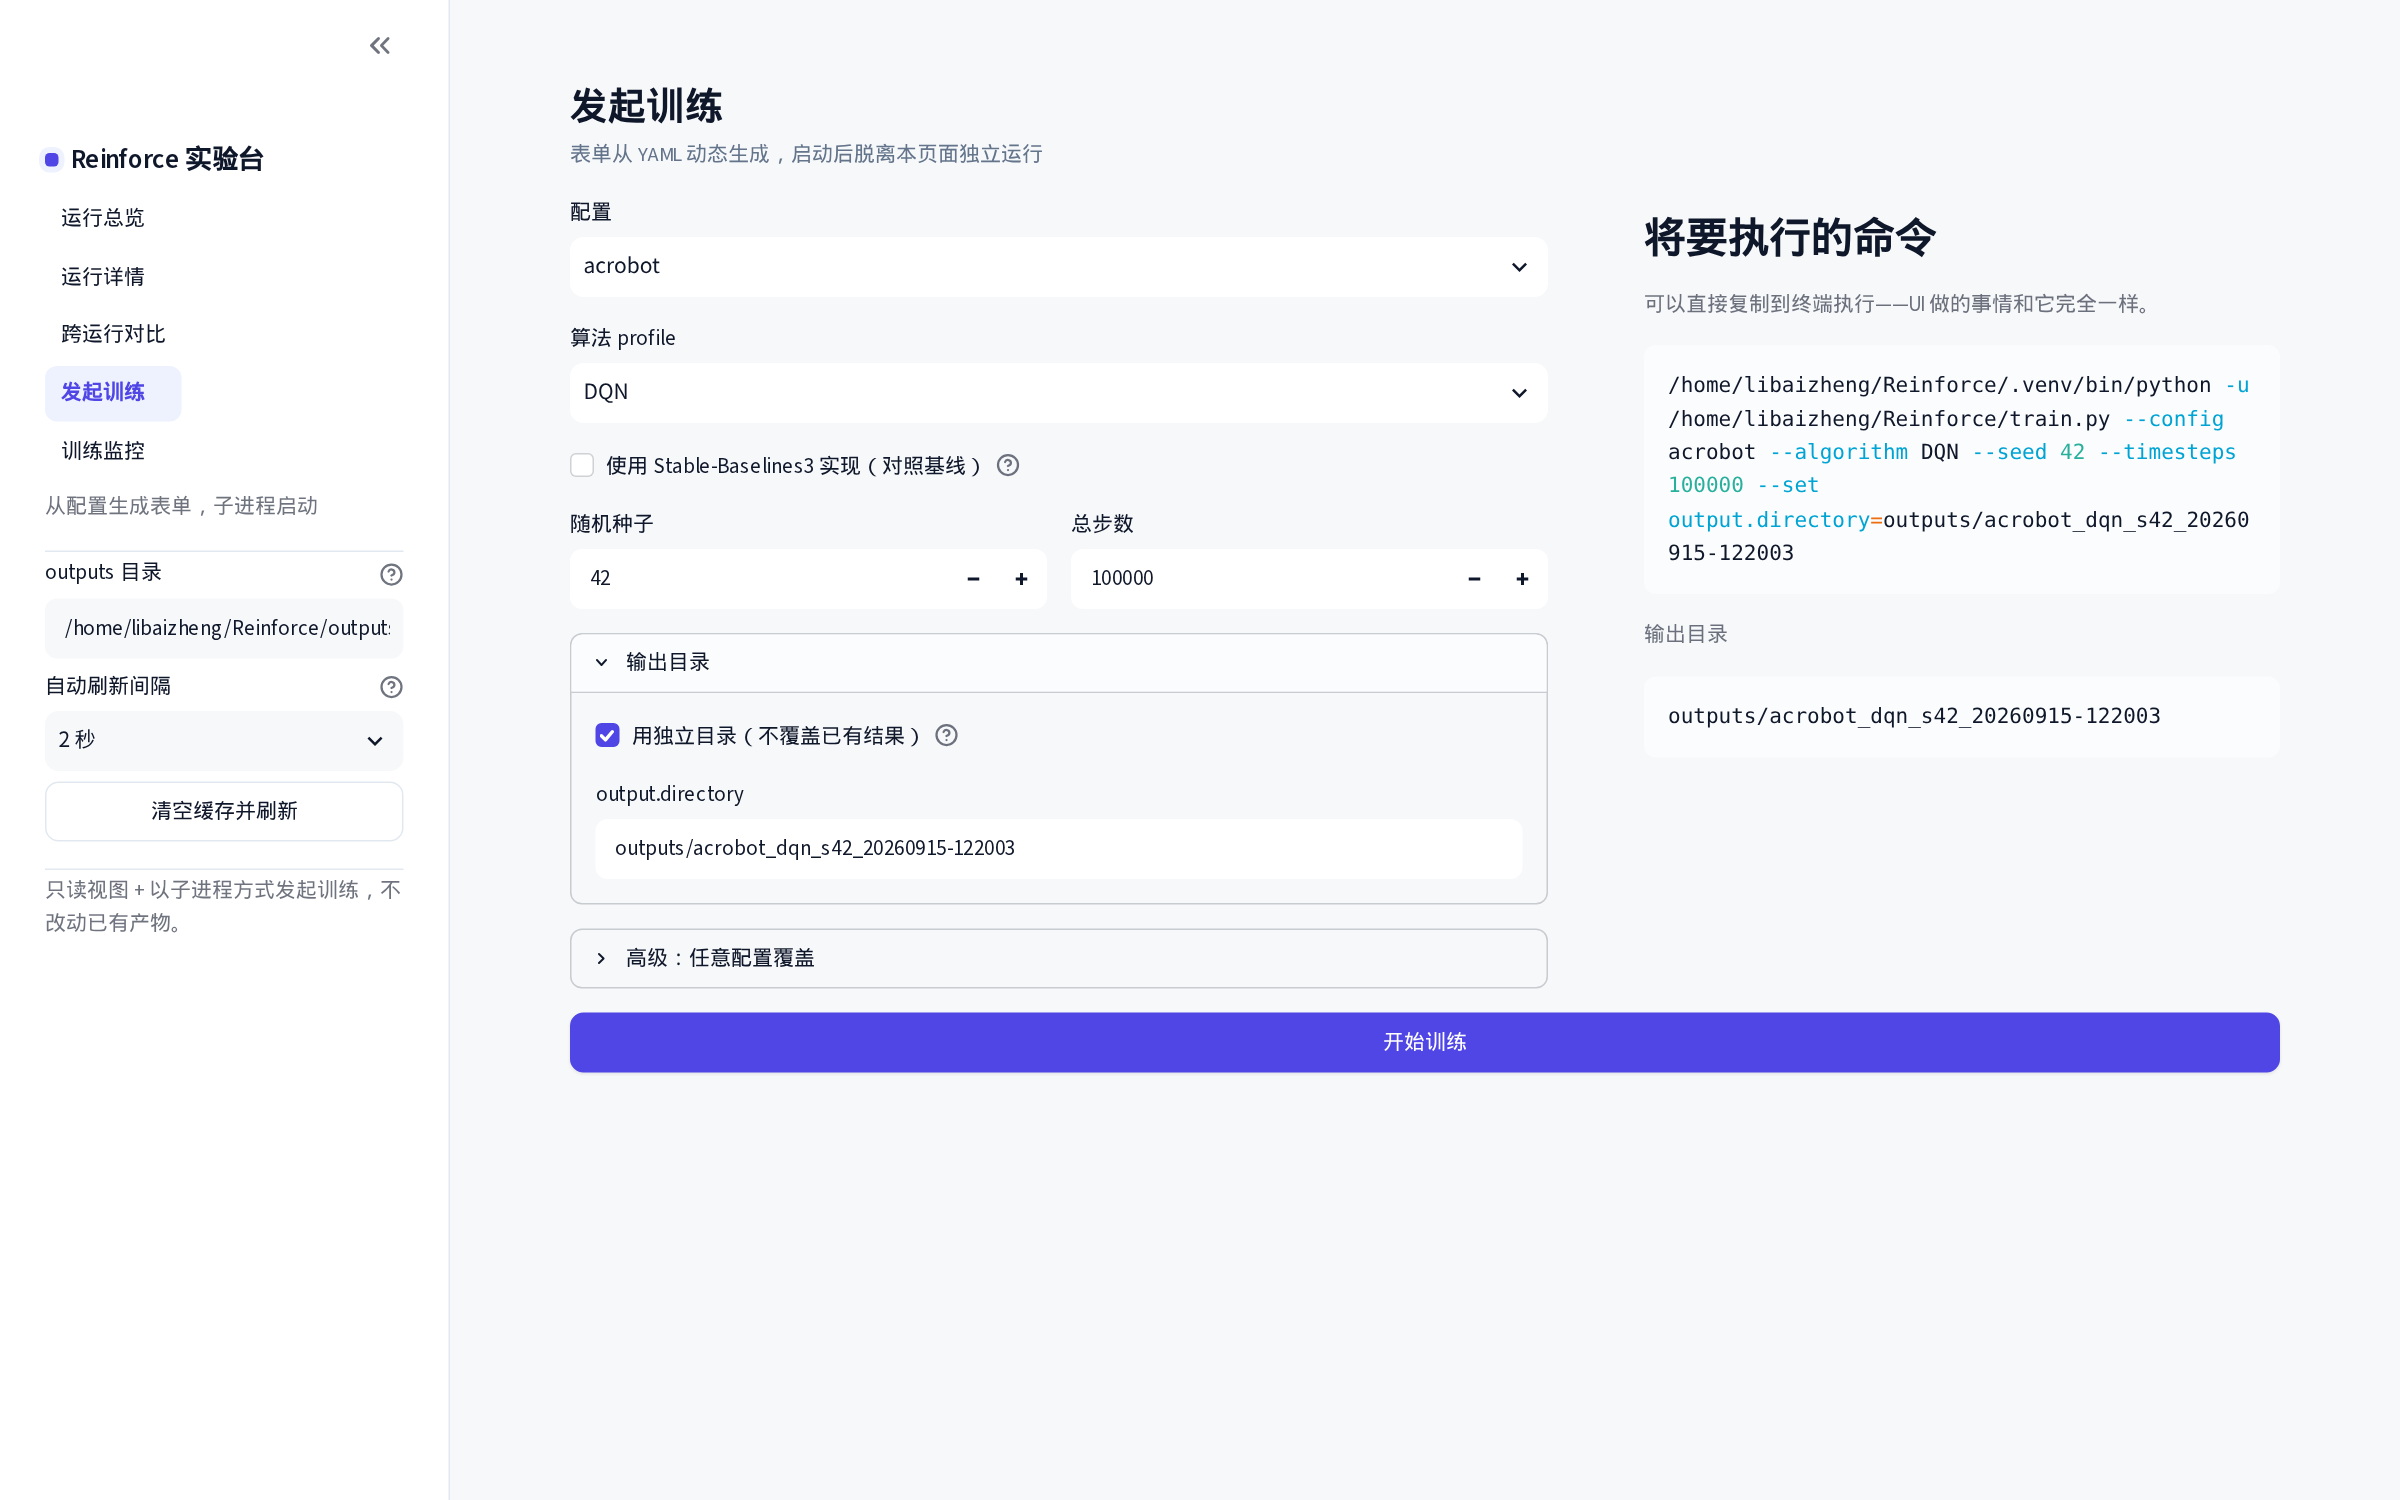
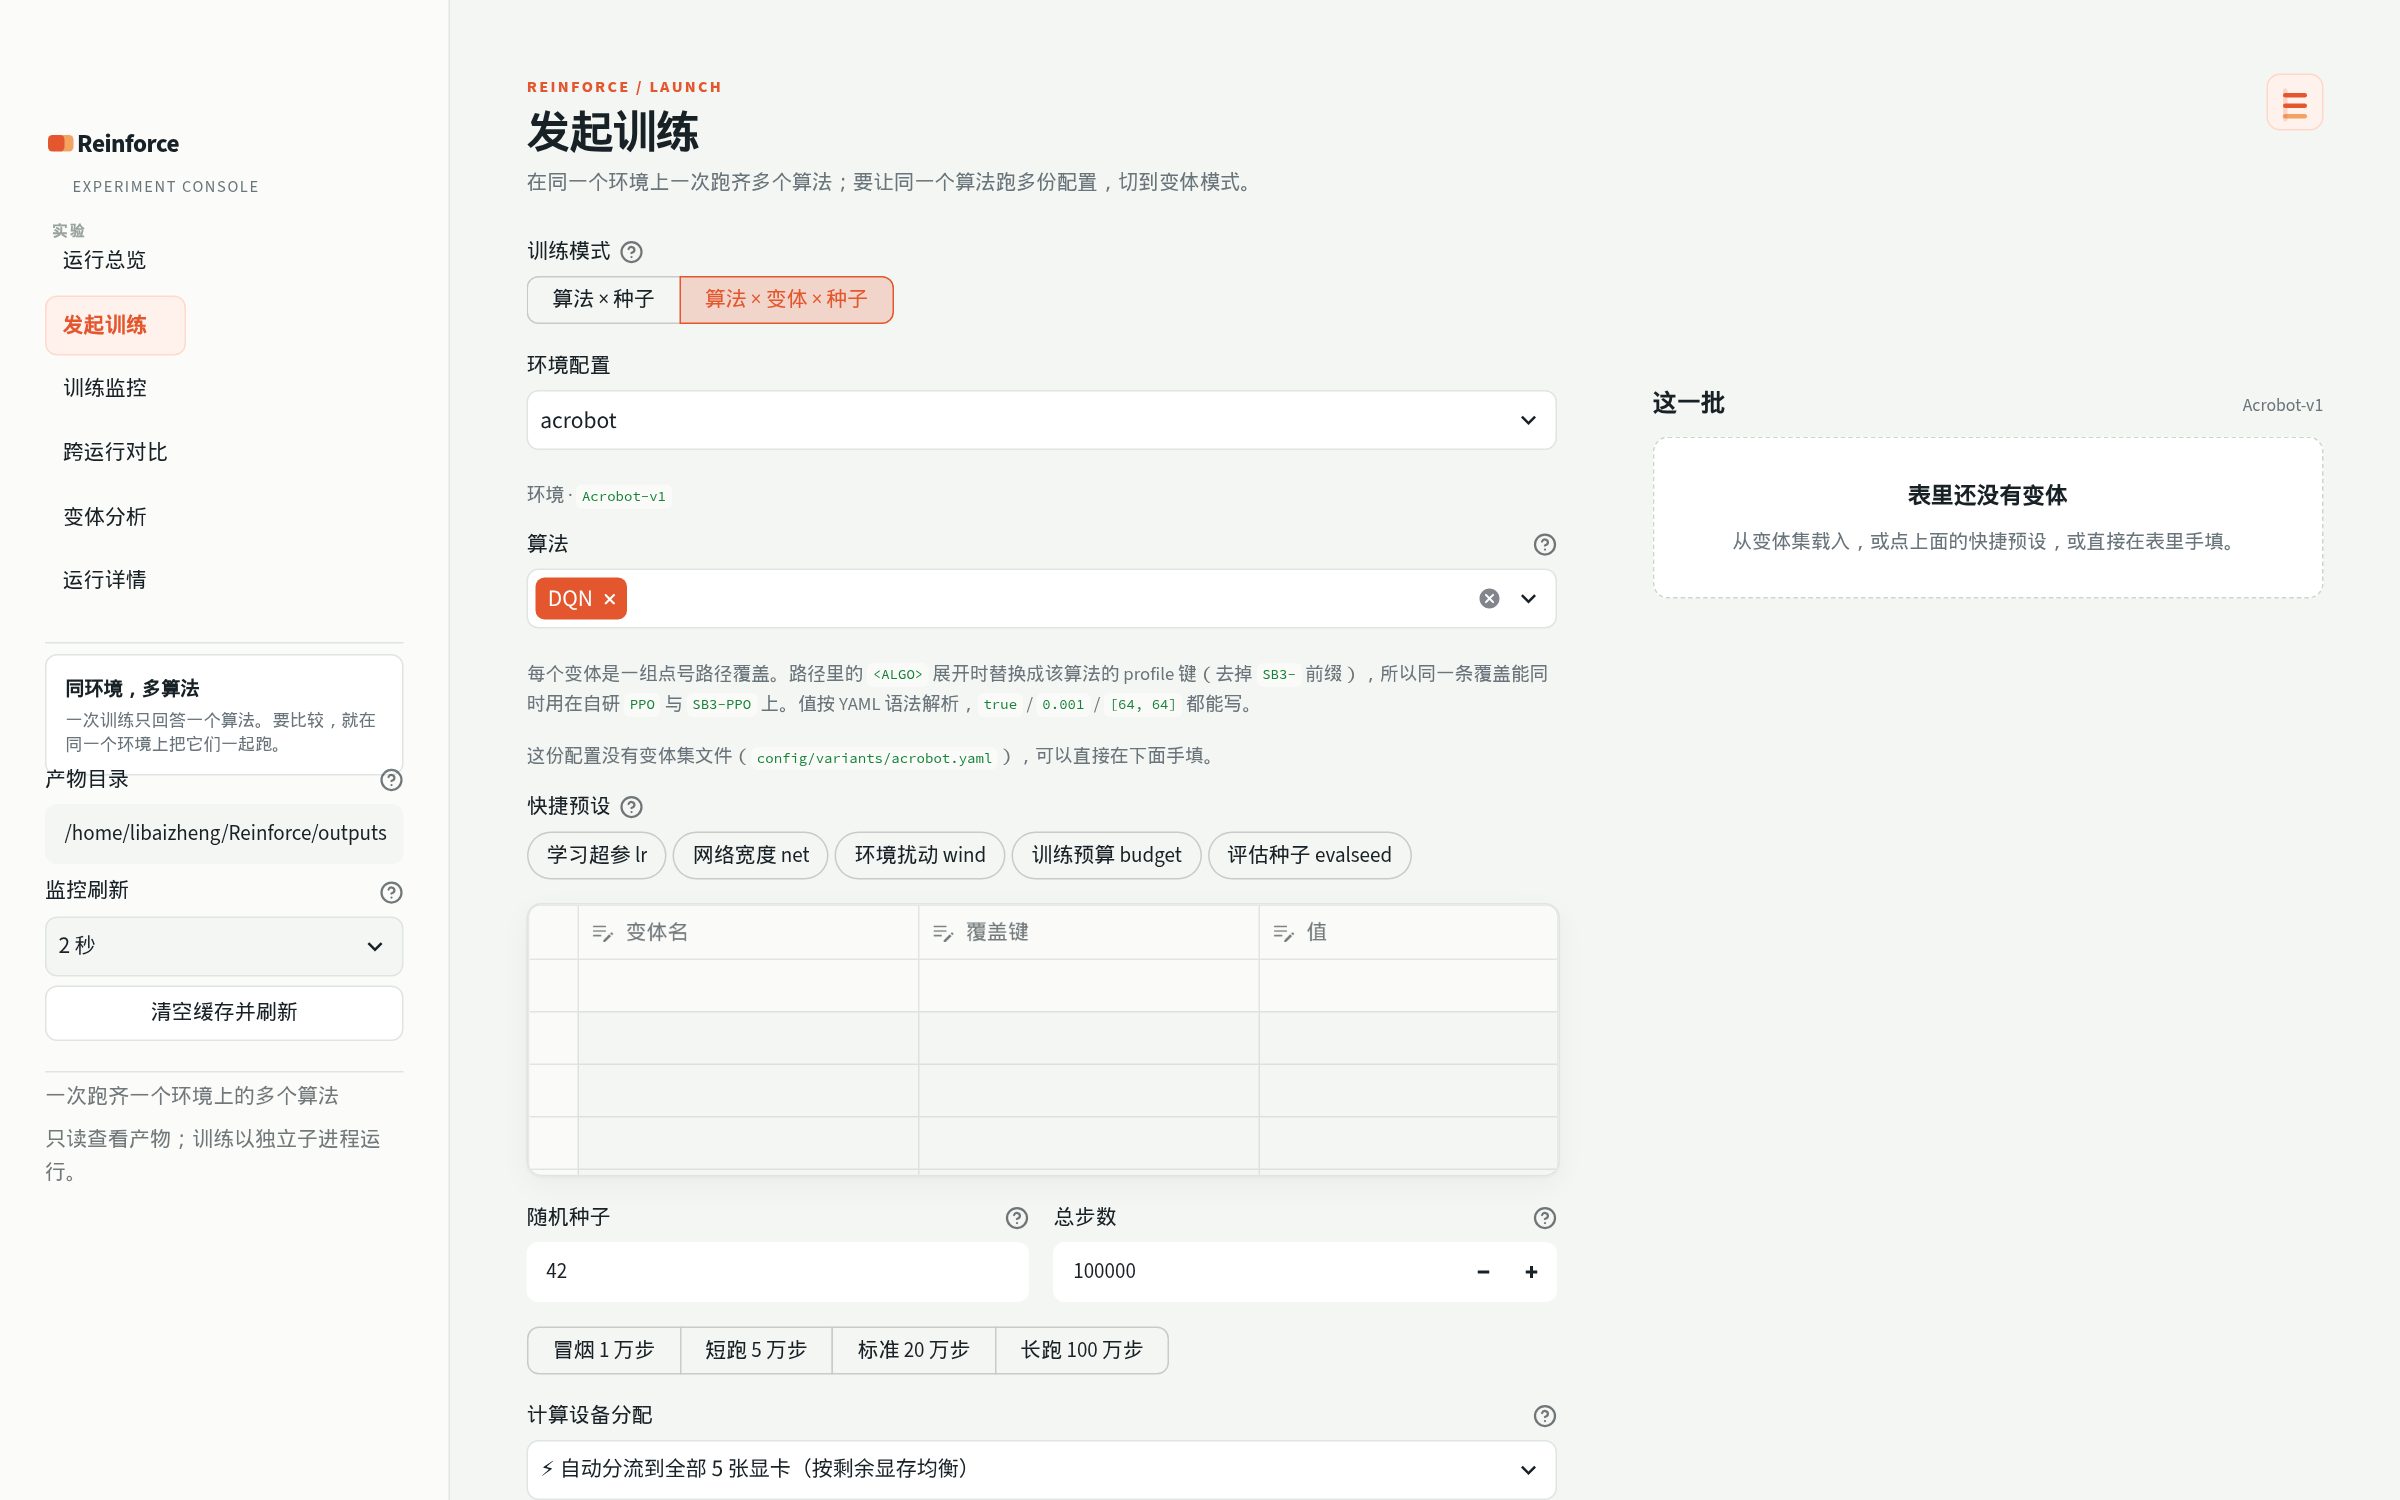
README 补 WebUI 截图：发起训练换成变体模式，新增变体分析
上一次提交（e987cbe）换掉了 `docs/images/webui/train.png`，并新增
`docs/images/webui/analysis.png`，但 README 里对这两张图的说明还没跟上。
这次把文案补齐，并对图片本身做了一次溯源核对。

`train.png` 一处：原来写的是「表单实时生成将要执行的命令行」，那是基准模式的
画面；新图拍的是**变体模式**，一张 `变体名 | 覆盖键 | 值` 长表铺开同算法的多份
配置，按画面改成对应的说法。

`analysis.png` 一处：表格里补一行跨两列的「变体分析」，说明这一页先给噪声底线、
再给各变体的敏感度与符号检验，`width="880"` 与上面的 `overview.png` 对齐。

实测证据（两张图都不是靠肉眼看缩略图定的性）：

- 图是 `/tmp/pwdrv/shot_variant_docs.mjs` 在 1600×1000 视口 + `deviceScaleFactor
  = 1.5` 下拍的，所以尺寸都是 2400×1500，与目录里原有的 6 张同规格。
- `train.png` 的 md5 是 `142f3c1f…`，与刚才重跑同一条脚本路径拿到的
  `/tmp/probe_full_variant.png` 做像素差：2400×1500 个像素里只有 15 个不同
  （bbox 384,768–398,773，一个 0.4% 面积的数字在动），差异占比 9.4e-06；
  同一张图与基准模式那张对比则有 20.1% 的像素不同。也就是说这张图确实停在
  「变体」这一侧。
- 选中态的判据用 `aria-checked` 读出来，不靠配色猜：基准模式下
  `算法 × 种子` 的 `aria-checked=true`，变体模式下 `算法 × 变体 × 种子`
  的 `aria-checked=true`，两者的 `background-color` / `color` 同步翻转
  （`rgba(228,87,46,.2)` / `rgb(24,33,38)` ↔ `rgb(244,246,243)` / `rgb(228,87,46)`）。
- `analysis.png` 的 md5 是 `8532faa8…`，与 `/tmp/doc_analysis.png` 逐字节相同，
  确认是「变体分析」页的实拍（`/tmp/pwdrv/shot_variant_docs.mjs` 切页后所拍）。

验证：`git diff --stat` 是 README.md +7/−1 与两张 PNG 的二进制替换；
`docs/images/webui/` 下 7 张图现在全是 2400×1500。

顺带：`logs/variant-batch.log` 与 `2026-09-22-203015-command-namegoalcommand-name.txt`
仍未跟踪，前者入不入库待定，后者不提交也不删除。

diff --git a/README.md b/README.md
@@ -51,7 +51,13 @@
 </td>
 <td width="50%" align="center">
 <img src="docs/images/webui/train.png" alt="发起训练"><br>
-<sub><b>发起训练</b> —— 表单实时生成将要执行的命令行</sub>
+<sub><b>发起训练</b>（变体模式）—— 一张 <code>变体名 | 覆盖键 | 值</code> 长表铺开同算法的多份配置</sub>
+</td>
+</tr>
+<tr>
+<td colspan="2" align="center">
+<img src="docs/images/webui/analysis.png" width="880" alt="变体分析"><br>
+<sub><b>变体分析</b> —— 先给噪声底线，再给各变体的敏感度与符号检验</sub>
 </td>
 </tr>
 </table>
